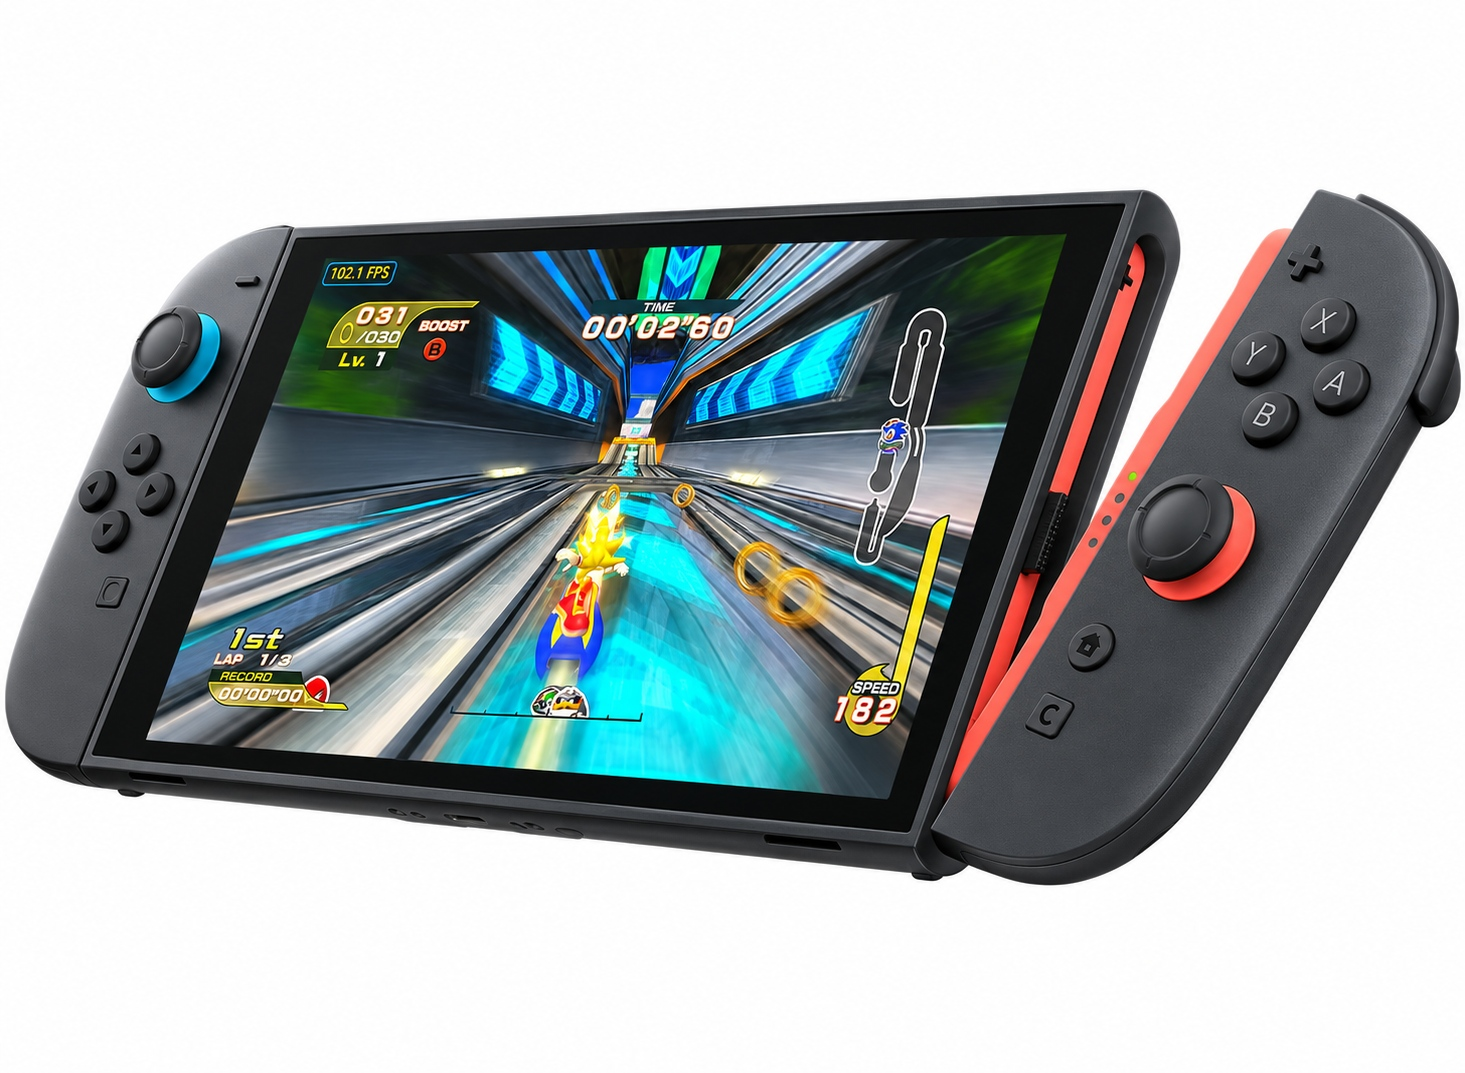
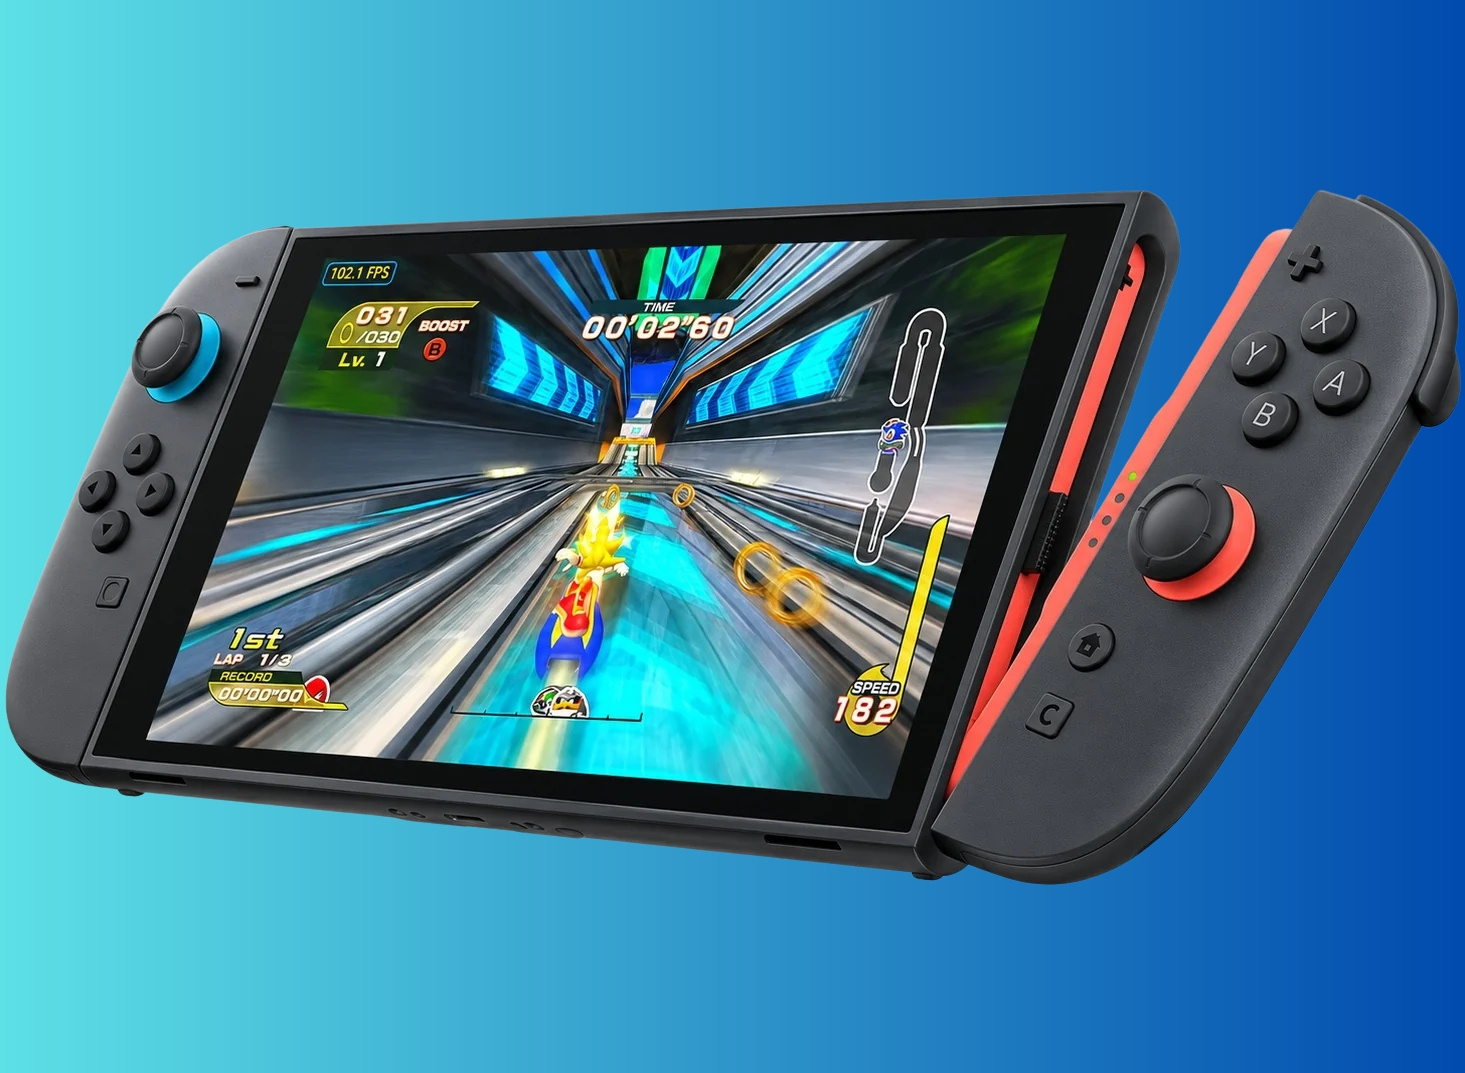
Update the Switch 2 release art to the blue background
Use the maintainer’s revised approved composite at both existing image paths and retain exact historical hashes.

diff --git a/tools/check_no_game_data.py b/tools/check_no_game_data.py
@@ -50,7 +50,7 @@ HOME_OK = re.compile(r"(?i)(users[\\/](?:<[^>]+>|(?:you|name|username|me|public)
 # picture is refused until its SHA-1 is put here. The temporary art notices are also listed by exact hash.
 OWN_ART = {
     "docs/images/v0.9.0/riders-rebuilt-overview.jpg": "367159e2206ec59ffcba9181a18b0c29b865df58",  # Maintainer's Canva artwork using their gameplay capture
-    "docs/images/switch2-alpha3-banner.jpg": "3bc7fa019646a0f6b0ad97200748e7a830820fbb",  # Maintainer-approved composite for the Switch 2 Alpha 3 release
+    "docs/images/switch2-alpha3-banner.jpg": "ccbd00b191343185ca1d6a2145c82a1ebd9fe09d",  # Maintainer-approved Switch 2 composite with blue background
     "docs/images/v0.8.2/rainbow-rush.jpg": "4ef97573b2fd22e9a5ad24c321dfa982fdda91bd",  # Lanmana artwork supplied and approved by the maintainer for v0.8.2
     "docs/images/sonic-riders-readme.jpg": "f073efe44153a731bc96f6f1f4a3473180487f2c",  # SEGA promotional artwork supplied by the maintainer for the README
     # User-requested documentation: reviewed current installer UI, privacy masks and vector annotations.
@@ -65,7 +65,7 @@ OWN_ART = {
     "docs/images/installation/switch2-select-card.png": "3415e8d035862c907f3cdeefe8bd3dbe7e84a600",
     "docs/images/installation/switch2-select-disc.png": "eff37dd176652aa70c7c8977d04d0e95f70abfcb",
     "docs/images/switch2-alpha1-banner.jpg": "50f383f932945e183f8a2ab34c8d84d9083e9887",  # Temporary commissioned-art notice
-    "docs/images/switch2-poster.jpg": "557fff627f1130606981565212eb3223e3e86544",  # Temporary commissioned-art notice and Switch 2 homebrew announcement
+    "docs/images/switch2-poster.jpg": "ccbd00b191343185ca1d6a2145c82a1ebd9fe09d",  # Maintainer-approved Switch 2 composite with blue background
     "docs/images/riders-plus/riders-plus-banner.jpg": "7fa3b8313fe95d24cd5c040a76954685fef24315",  # Temporary commissioned-art notice
     "docs/images/v0.9.0/super-sonic-banner.jpg": "79a2665eb5b64fbce7f0c94920175405cf4e656e",  # Temporary commissioned-art notice
     "launcher/banner.jpg": "0c0d252792e9f873acabec1def46d38675b10f8f",  # Temporary commissioned-art notice
@@ -105,7 +105,8 @@ OWN_ART = {
 # the user's choice, 2026-11-07) and cedry2kio's game icon (the user's OK, 2026-11-10); and the maintainer's own
 # touch-control art. Committing any of these again as a new file is still refused unless it is in OWN_ART.
 PAST_ART = {
-    "docs/images/switch2-poster.jpg": {"1b3ad238b2a0864f3b838fbde681415262cc5d47"},
+    "docs/images/switch2-alpha3-banner.jpg": {"3bc7fa019646a0f6b0ad97200748e7a830820fbb"},
+    "docs/images/switch2-poster.jpg": {"1b3ad238b2a0864f3b838fbde681415262cc5d47", "557fff627f1130606981565212eb3223e3e86544"},
     "docs/images/installation/switch-installer.png": {"c99dbc9b73cd2eff24ca90320837d46c7323a15d"},
     "docs/images/installation/switch-completion.png": {"117e009d71e381fddb4c4cb6332ece8c87c3f63d"},
     "docs/images/installation/switch2-installer.png": {"2d0427e65a7c73bfdd9d84250ac27995cd60bf60"},

diff --git a/docs/HISTORY.md b/docs/HISTORY.md
@@ -2179,3 +2179,8 @@ edits, builds, log deletion, rollout or release changes during this handoff.
 
 - The maintainer supplied their own gameplay screenshot annotated in Canva for the v0.9.0 release and website overview.
   Published at its original dimensions with a full-size link. The release tag and setup downloads remain available.
+
+## 2026-11-26: Blue-background Switch 2 release art
+
+- Carried the maintainer's blue-background revision to both applicable Switch 2 Alpha release banners and the website's share preview.
+  The Alpha 2 and Alpha 3 tags and setup downloads remain available.

diff --git a/STATE.md b/STATE.md
@@ -15,7 +15,7 @@
 
 - The v0.9.0 release notes and website feature overview use the maintainer's annotated gameplay screenshot.
 
-- The Switch 2 Alpha 3 release notes use the maintainer-approved composite of a console image and their gameplay photo.
+- The Switch 2 Alpha 2 and Alpha 3 release banners and website share previews use the maintainer's blue-background composite.
 
 - The v0.8.2 release notes use the Riders Rebuilt name and the maintainer-approved Rainbow Rush artwork credited to Lanmana.
 
